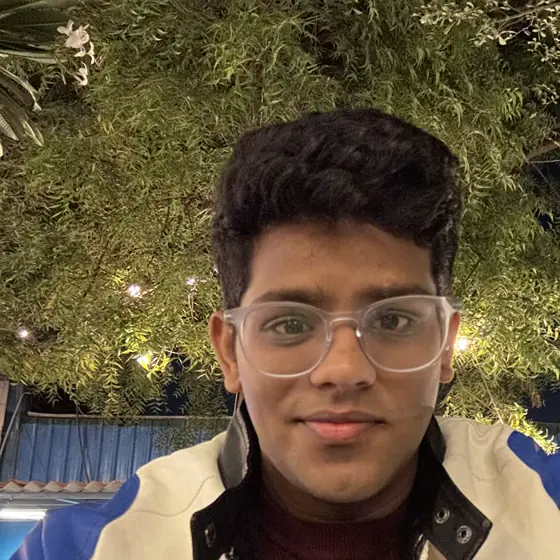
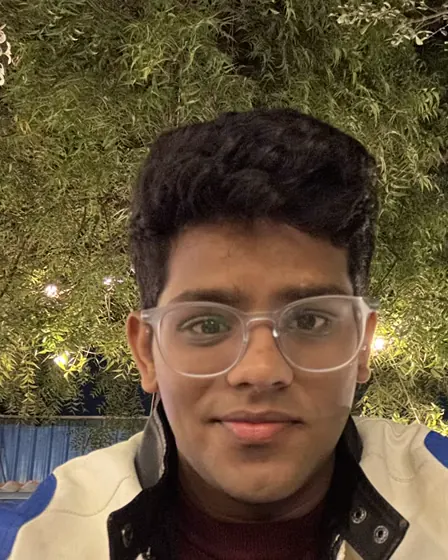
Make the portrait vignette an oval that only eats the corners
A portrait oval cannot fit inside a square frame: give the ellipse a vertical
radius large enough to read as an oval and the top and bottom are clipped by
the frame instead of faded by the mask. So the frame is 4:5 now, and an
ellipse at half its width and half its height inscribes it exactly, reaching
every edge with only the four corners left over to dissolve.

It also holds fully solid out to 68%, where it used to start fading at 26%
and crush most of the picture. The face and shoulders are untouched and the
fade is spent entirely on meeting the background.

diff --git a/src/components/Portrait.tsx b/src/components/Portrait.tsx
@@ -6,18 +6,20 @@ export default function Portrait() {
             <Image
                 src="/soumya-portrait.webp"
                 alt="Soumya Maheshwari"
-                width={560}
+                width={448}
                 height={560}
                 sizes="(min-width: 768px) 220px, 160px"
                 className="w-full select-none grayscale-[0.35] contrast-[1.05]"
                 style={{
-                    // A vignette, not an edge fix: this is a whole photograph rather than a
-                    // cutout, so it has content running to all four corners and needs the
-                    // fade to start well inside the frame and finish before it.
+                    // The frame is 4:5, so an ellipse at half its width and half its
+                    // height inscribes it exactly: a portrait oval that reaches every
+                    // edge and only has the four corners left over to dissolve. It
+                    // holds solid to 68% so the face and shoulders are untouched and
+                    // the fade is spent entirely on meeting the background.
                     maskImage:
-                        "radial-gradient(ellipse 58% 62% at 52% 46%, #000 26%, rgb(0 0 0 / 40%) 56%, transparent 88%)",
+                        "radial-gradient(ellipse 50% 50% at 50% 50%, #000 68%, rgb(0 0 0 / 72%) 86%, transparent 100%)",
                     WebkitMaskImage:
-                        "radial-gradient(ellipse 58% 62% at 52% 46%, #000 26%, rgb(0 0 0 / 40%) 56%, transparent 88%)",
+                        "radial-gradient(ellipse 50% 50% at 50% 50%, #000 68%, rgb(0 0 0 / 72%) 86%, transparent 100%)",
                 }}
             />
         </div>
